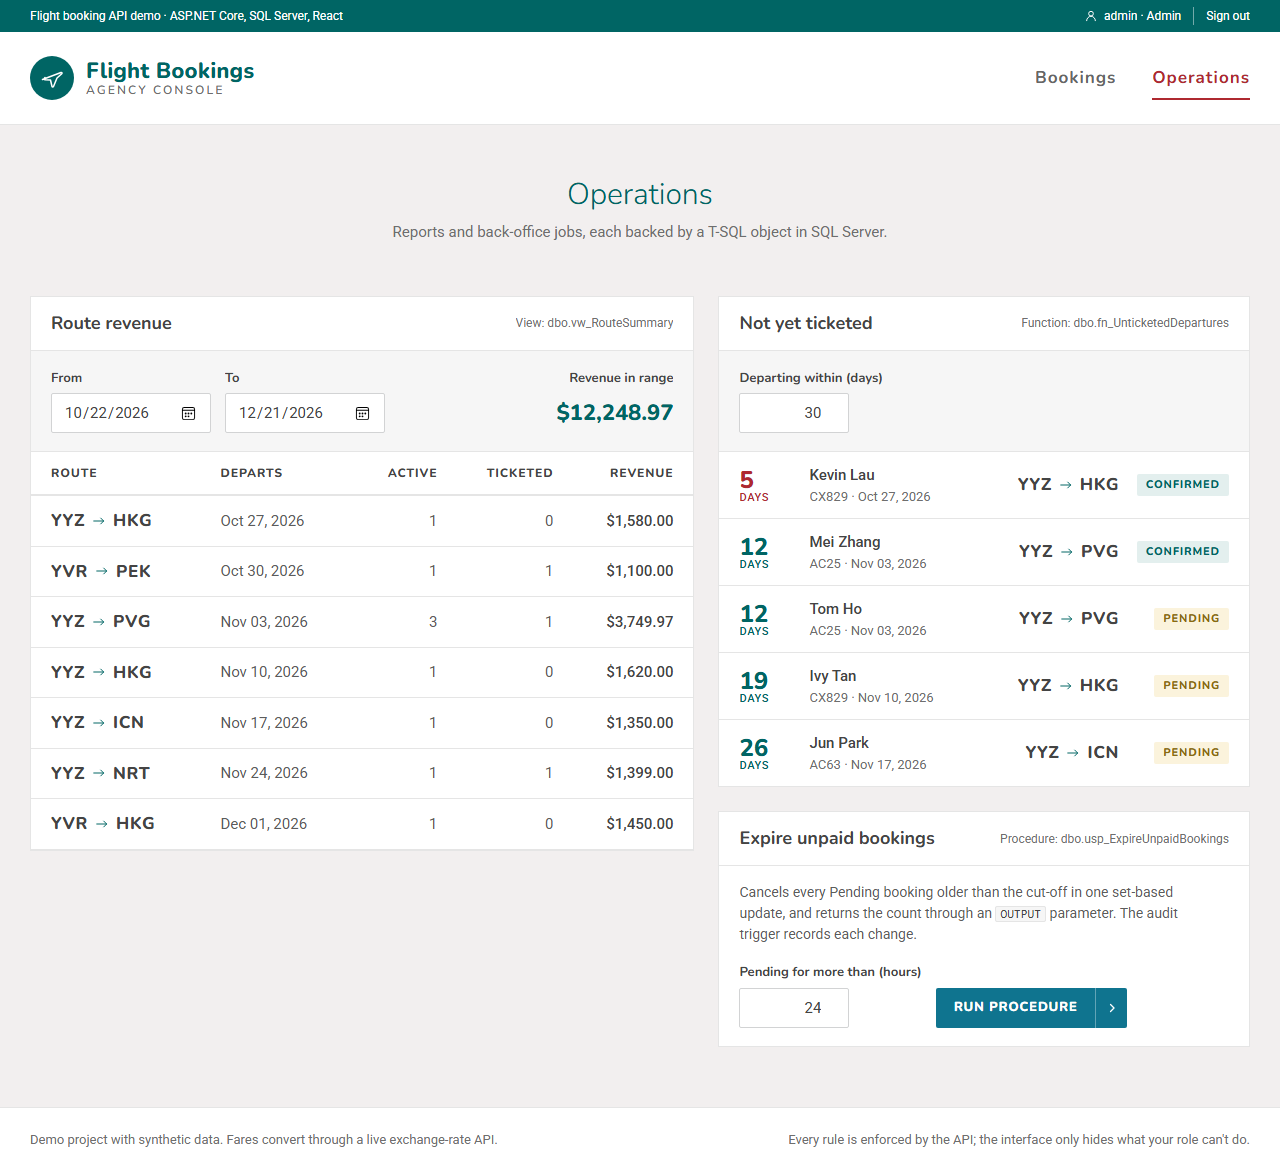
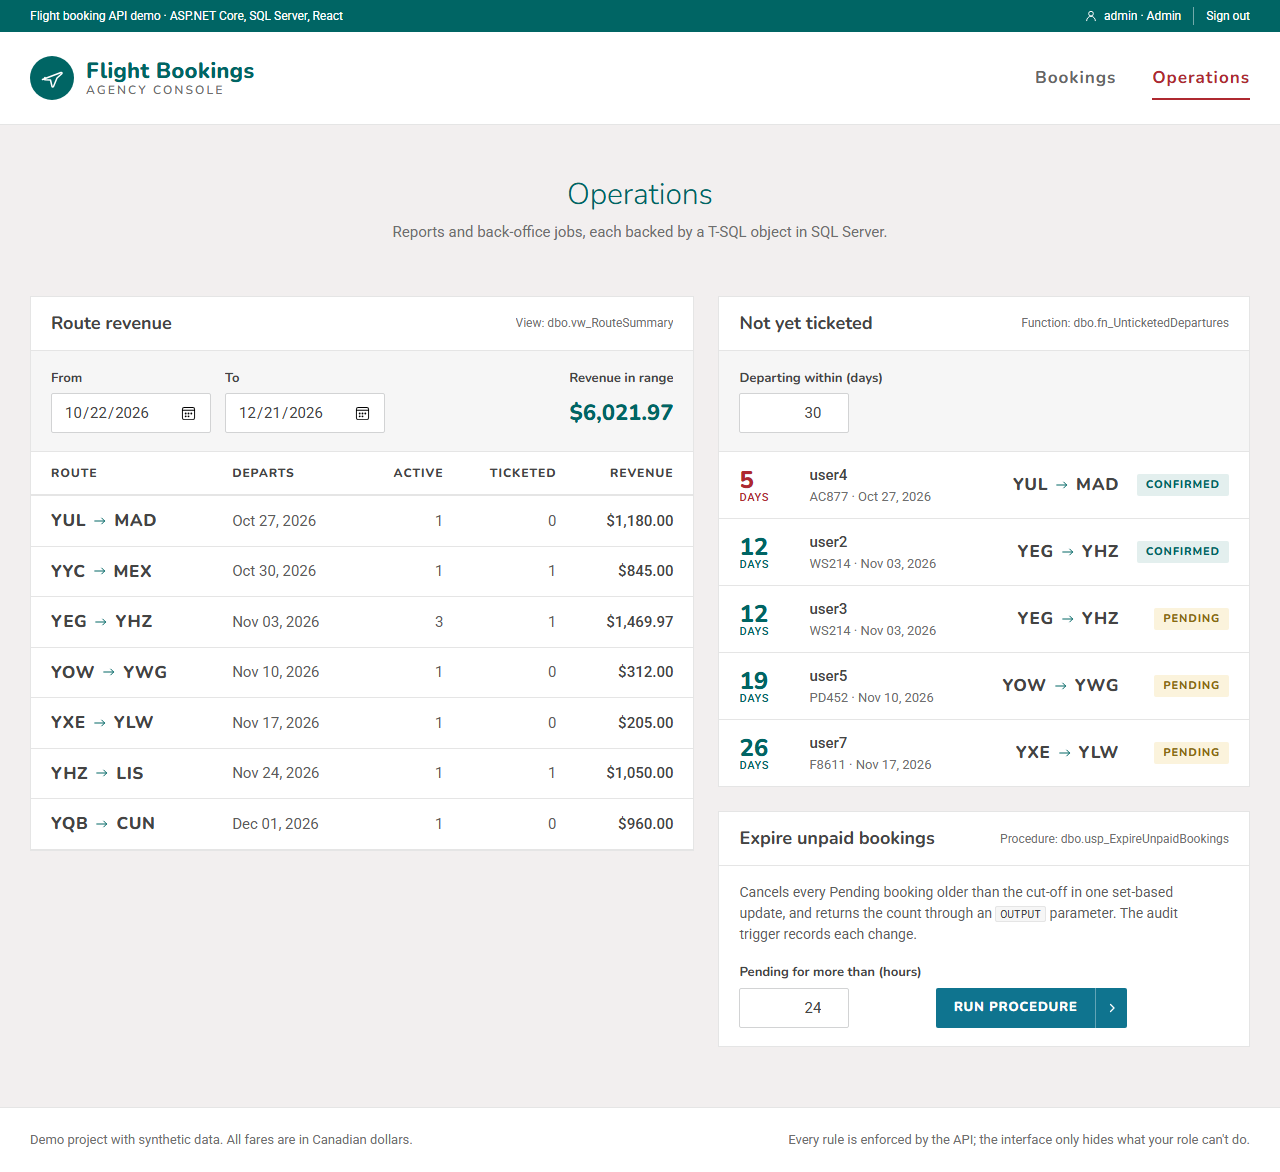
Enhancements

diff --git a/client/src/components/BookingsTable.tsx b/client/src/components/BookingsTable.tsx
@@ -1,14 +1,13 @@
 import { useState } from "react";
-import { changeStatus, getFare, type StatusAction } from "../api";
-import type { Booking, FareQuote } from "../types";
+import { changeStatus, type StatusAction } from "../api";
+import type { Booking } from "../types";
 import { money, shortDate } from "../format";
-import { Icon, Route, StatusTag } from "./Ui";
+import { Route, StatusTag } from "./Ui";
 
 interface Props {
   token: string;
   isAdmin: boolean;
   bookings: Booking[];
-  currency: string;
   selectedId: number | null;
   pressedId: number | null;
   onSelect: (id: number) => void;
@@ -31,14 +30,12 @@ export function BookingsTable({
   token,
   isAdmin,
   bookings,
-  currency,
   selectedId,
   pressedId,
   onSelect,
   onChanged,
   onError,
 }: Props) {
-  const [quotes, setQuotes] = useState<Record<number, FareQuote>>({});
   const [busyId, setBusyId] = useState<number | null>(null);
 
   async function runAction(id: number, action: StatusAction) {
@@ -48,18 +45,6 @@ export function BookingsTable({
       onChanged(id);
     } catch (err) {
       onError(err instanceof Error ? err.message : "Action failed.");
-    } finally {
-      setBusyId(null);
-    }
-  }
-
-  async function convert(id: number) {
-    setBusyId(id);
-    try {
-      const quote = await getFare(token, id, currency);
-      setQuotes((q) => ({ ...q, [id]: quote }));
-    } catch (err) {
-      onError(err instanceof Error ? err.message : "Conversion failed.");
     } finally {
       setBusyId(null);
     }
@@ -89,7 +74,6 @@ export function BookingsTable({
       </thead>
       <tbody>
         {bookings.map((b) => {
-          const quote = quotes[b.id]?.currency === currency ? quotes[b.id] : undefined;
           return (
             // key lets React match rows between renders, so it only updates the rows that changed
             <tr
@@ -125,7 +109,6 @@ export function BookingsTable({
               </td>
               <td className="num" data-label="Fare">
                 {money(b.fareCad, "CAD")}
-                {quote && <span className="converted">≈ {money(quote.convertedFare, quote.currency)}</span>}
               </td>
               <td data-label="Status">
                 <StatusTag status={b.status} fresh={pressedId === b.id} />
@@ -144,16 +127,6 @@ export function BookingsTable({
                       {LABELS[a]}
                     </button>
                   ))}
-                <button
-                  type="button"
-                  className="quiet"
-                  disabled={busyId === b.id}
-                  onClick={() => convert(b.id)}
-                  title={`Convert this fare to ${currency} with the live rates API`}
-                >
-                  <Icon name="convert" />
-                  {currency}
-                </button>
               </td>
             </tr>
           );

diff --git a/client/src/App.tsx b/client/src/App.tsx
@@ -9,7 +9,6 @@ import { ButtonLabel, Icon, Wordmark } from "./components/Ui";
 import type { Booking, BookingStatus, SearchFilters, Session } from "./types";
 
 const PAGE_SIZE = 10;
-const CURRENCIES = ["CNY", "HKD", "TWD", "JPY", "KRW", "USD"];
 
 type View = "bookings" | "operations";
 
@@ -24,7 +23,6 @@ export default function App() {
   const [totalCount, setTotalCount] = useState(0);
   const [error, setError] = useState<string | null>(null);
   const [loading, setLoading] = useState(false);
-  const [currency, setCurrency] = useState("CNY");
   const [selectedId, setSelectedId] = useState<number | null>(null);
   const [freshId, setFreshId] = useState<number | null>(null); // the row whose status just changed
   const [historyVersion, setHistoryVersion] = useState(0);
@@ -172,7 +170,7 @@ export default function App() {
                     <span className="field-label">To</span>
                     <input
                       className="code"
-                      placeholder="PVG"
+                      placeholder="YVR"
                       maxLength={3}
                       value={draft.destination}
                       onChange={(e) => setDraft({ ...draft, destination: e.target.value.toUpperCase() })}
@@ -199,14 +197,6 @@ export default function App() {
                   <button type="submit" className="btn-primary">
                     <ButtonLabel>Search</ButtonLabel>
                   </button>
-                  <label className="field compact convert-to">
-                    <span className="field-label">Convert fares to</span>
-                    <select value={currency} onChange={(e) => setCurrency(e.target.value)}>
-                      {CURRENCIES.map((c) => (
-                        <option key={c}>{c}</option>
-                      ))}
-                    </select>
-                  </label>
                 </form>
 
                 {error && (
@@ -220,7 +210,6 @@ export default function App() {
                     token={session.token}
                     isAdmin={isAdmin}
                     bookings={bookings}
-                    currency={currency}
                     selectedId={selectedId}
                     pressedId={freshId}
                     onSelect={(id) => setSelectedId((current) => (current === id ? null : id))}
@@ -269,7 +258,7 @@ export default function App() {
 
       <footer className="footer">
         <div className="footer-inner">
-          <span>Demo project with synthetic data. Fares convert through a live exchange-rate API.</span>
+          <span>Demo project with synthetic data. All fares are in Canadian dollars.</span>
           <span>Every rule is enforced by the API; the interface only hides what your role can't do.</span>
         </div>
       </footer>

diff --git a/client/src/index.css b/client/src/index.css
@@ -745,14 +745,6 @@ input.num {
   width: 150px;
 }
 
-.convert-to {
-  margin-left: auto;
-}
-
-.convert-to select {
-  width: 110px;
-}
-
 .toolbar-total {
   display: grid;
   gap: 5px;
@@ -844,13 +836,6 @@ input.num {
 
 .register td.dim {
   color: var(--muted);
-}
-
-.converted {
-  display: block;
-  font-size: 12px;
-  font-weight: 500;
-  color: var(--teal);
 }
 
 .row-open {
@@ -1217,10 +1202,6 @@ input.num {
     grid-template-columns: minmax(0, 1fr);
     grid-template-areas: "notice" "routes" "due" "expire";
   }
-
-  .convert-to {
-    margin-left: 0;
-  }
 }
 
 @media (max-width: 760px) {
@@ -1313,8 +1294,7 @@ input.num {
   .toolbar input.code,
   .toolbar input[type="date"],
   .toolbar input[type="number"],
-  .toolbar select,
-  .convert-to select {
+  .toolbar select {
     width: 100%;
   }
 

diff --git a/client/src/api.ts b/client/src/api.ts
@@ -1,7 +1,6 @@
 import type {
   Booking,
   CreateBookingRequest,
-  FareQuote,
   PagedResult,
   RouteSummary,
   SearchFilters,
@@ -91,10 +90,6 @@ export type StatusAction = "confirm" | "ticket" | "cancel";
 
 export function changeStatus(token: string, id: number, action: StatusAction): Promise<Booking> {
   return request(`/api/bookings/${id}/${action}`, token, { method: "PUT" });
-}
-
-export function getFare(token: string, id: number, currency: string): Promise<FareQuote> {
-  return request(`/api/bookings/${id}/fare?currency=${encodeURIComponent(currency)}`, token);
 }
 
 // Operations: each call is backed by a T-SQL object in SQL Server.

diff --git a/client/src/components/Ui.tsx b/client/src/components/Ui.tsx
@@ -11,7 +11,6 @@ type IconName =
   | "arrow"
   | "search"
   | "signout"
-  | "convert"
   | "close"
   | "chevron-left"
   | "chevron-right"
@@ -23,7 +22,6 @@ const ICONS: Record<IconName, React.ReactNode> = {
   arrow: <path d="M3 12h17m-5-5 5 5-5 5" />,
   search: <path d="m20 20-4.5-4.5M10.5 17a6.5 6.5 0 1 1 0-13 6.5 6.5 0 0 1 0 13Z" />,
   signout: <path d="M14 4h4.5A1.5 1.5 0 0 1 20 5.5v13a1.5 1.5 0 0 1-1.5 1.5H14M10 16l-4-4 4-4m-4 4h11" />,
-  convert: <path d="M4 8h13l-3.5-3.5M20 16H7l3.5 3.5" />,
   close: <path d="m6 6 12 12M18 6 6 18" />,
   "chevron-left": <path d="m14.5 6-6 6 6 6" />,
   "chevron-right": <path d="m9.5 6 6 6-6 6" />,

diff --git a/client/src/components/CreateBookingForm.tsx b/client/src/components/CreateBookingForm.tsx
@@ -107,7 +107,7 @@ export function CreateBookingForm({ token, onCreated }: Props) {
           <input
             className="code"
             value={form.destination}
-            placeholder="PVG"
+            placeholder="YVR"
             maxLength={3}
             onChange={(e) => update("destination", e.target.value.toUpperCase())}
             required

diff --git a/client/src/types.ts b/client/src/types.ts
@@ -32,15 +32,6 @@ export interface PagedResult<T> {
   totalPages: number;
 }
 
-export interface FareQuote {
-  bookingId: number;
-  fareCad: number;
-  currency: string;
-  rate: number;
-  convertedFare: number;
-  ratesUpdatedAt: string;
-}
-
 export interface TokenResponse {
   accessToken: string;
   expiresAtUtc: string;

diff --git a/Data/DemoDataSeeder.cs b/Data/DemoDataSeeder.cs
@@ -28,16 +28,16 @@ public static class DemoDataSeeder
             };
 
         db.Bookings.AddRange(
-            Make("Wei Chen", "AC25", "YYZ", "PVG", 12, 1249.99m, BookingStatus.Ticketed),
-            Make("Mei Zhang", "AC25", "YYZ", "PVG", 12, 1249.99m, BookingStatus.Confirmed),
-            Make("Tom Ho", "AC25", "YYZ", "PVG", 12, 1249.99m, BookingStatus.Pending),
-            Make("Kevin Lau", "CX829", "YYZ", "HKG", 5, 1580.00m, BookingStatus.Confirmed),
-            Make("Ivy Tan", "CX829", "YYZ", "HKG", 19, 1620.00m, BookingStatus.Pending),
-            Make("Grace Liu", "AC7", "YVR", "PEK", 8, 1100.00m, BookingStatus.Ticketed),
-            Make("Jun Park", "AC63", "YYZ", "ICN", 26, 1350.00m, BookingStatus.Pending),
-            Make("Amy Wong", "CX889", "YVR", "HKG", 40, 1450.00m, BookingStatus.Confirmed),
-            Make("Leo Chan", "BR35", "YVR", "TPE", 15, 1190.00m, BookingStatus.Cancelled),
-            Make("Sara Lin", "AC1", "YYZ", "NRT", 33, 1399.00m, BookingStatus.Ticketed));
+            Make("user1", "WS214", "YEG", "YHZ", 12, 489.99m, BookingStatus.Ticketed),
+            Make("user2", "WS214", "YEG", "YHZ", 12, 489.99m, BookingStatus.Confirmed),
+            Make("user3", "WS214", "YEG", "YHZ", 12, 489.99m, BookingStatus.Pending),
+            Make("user4", "AC877", "YUL", "MAD", 5, 1180.00m, BookingStatus.Confirmed),
+            Make("user5", "PD452", "YOW", "YWG", 19, 312.00m, BookingStatus.Pending),
+            Make("user6", "AC1871", "YYC", "MEX", 8, 845.00m, BookingStatus.Ticketed),
+            Make("user7", "F8611", "YXE", "YLW", 26, 205.00m, BookingStatus.Pending),
+            Make("user8", "WS2702", "YQB", "CUN", 40, 960.00m, BookingStatus.Confirmed),
+            Make("user9", "AC8455", "YQR", "YXU", 15, 398.00m, BookingStatus.Cancelled),
+            Make("user10", "TS130", "YHZ", "LIS", 33, 1050.00m, BookingStatus.Ticketed));
 
         db.SaveChanges(); // the audit trigger records each new booking in BookingStatusChanges
     }

diff --git a/Controllers/BookingsController.cs b/Controllers/BookingsController.cs
@@ -27,7 +27,7 @@ public class BookingsController : ControllerBase
         return Ok(await _service.GetAllAsync());
     }
 
-    // GET api/bookings/search?origin=YYZ&destination=PVG&date=2026-11-15&page=1&pageSize=20
+    // GET api/bookings/search?origin=YYZ&destination=YVR&date=2026-11-15&page=1&pageSize=20
     [HttpGet("search")]
     public async Task<ActionResult<PagedResult<Booking>>> Search([FromQuery] BookingSearchQuery query, CancellationToken ct)
     {
@@ -78,14 +78,14 @@ public class BookingsController : ControllerBase
     [HttpPut("{id:int}/cancel")]
     public Task<ActionResult<Booking>> Cancel(int id) => ChangeStatus(id, BookingStatus.Cancelled);
 
-    // GET api/bookings/5/fare?currency=CNY
+    // GET api/bookings/5/fare?currency=USD
     // CancellationToken is filled in by ASP.NET Core and fires if the client disconnects.
     [HttpGet("{id:int}/fare")]
     [ProducesResponseType(StatusCodes.Status200OK)]
     [ProducesResponseType(StatusCodes.Status503ServiceUnavailable)]
     public async Task<ActionResult<FareQuote>> GetFare(
         int id,
-        [FromQuery, Required, RegularExpression("^[A-Z]{3}$", ErrorMessage = "Use a 3-letter ISO currency code like CNY.")]
+        [FromQuery, Required, RegularExpression("^[A-Z]{3}$", ErrorMessage = "Use a 3-letter ISO currency code like USD.")]
         string currency,
         CancellationToken ct)
     {

diff --git a/Models/CreateBookingRequest.cs b/Models/CreateBookingRequest.cs
@@ -16,7 +16,7 @@ public record CreateBookingRequest(
     [Required, RegularExpression("^[A-Z]{3}$", ErrorMessage = "Use a 3-letter IATA code like YYZ.")]
     string Origin,
 
-    [Required, RegularExpression("^[A-Z]{3}$", ErrorMessage = "Use a 3-letter IATA code like PVG.")]
+    [Required, RegularExpression("^[A-Z]{3}$", ErrorMessage = "Use a 3-letter IATA code like YVR.")]
     string Destination,
 
     DateOnly DepartureDate,

diff --git a/Models/BookingSearchQuery.cs b/Models/BookingSearchQuery.cs
@@ -2,7 +2,7 @@ using System.ComponentModel.DataAnnotations;
 
 namespace FlightBookingDemo.Models;
 
-// Bound from the query string: ?origin=YYZ&destination=PVG&date=2026-11-15&page=1&pageSize=20
+// Bound from the query string: ?origin=YYZ&destination=YVR&date=2026-11-15&page=1&pageSize=20
 // Every filter is optional; paging has safe defaults and a hard cap.
 public class BookingSearchQuery
 {

diff --git a/README.md b/README.md
@@ -14,7 +14,7 @@ A small flight-booking REST API in **ASP.NET Core 8**, **Entity Framework Core**
 | PUT | `/api/bookings/{id}/confirm` | any user | Pending to Confirmed |
 | PUT | `/api/bookings/{id}/ticket` | **Admin** | Confirmed to Ticketed; 403 for agents |
 | PUT | `/api/bookings/{id}/cancel` | any user | Any active status to Cancelled |
-| GET | `/api/bookings/{id}/fare?currency=CNY` | any user | Live conversion; 503 + `Retry-After` if the rates API is down |
+| GET | `/api/bookings/{id}/fare?currency=USD` | any user | Live conversion; 503 + `Retry-After` if the rates API is down |
 | GET | `/api/operations/route-summary?from=&to=` | any user | Route revenue report from the view `vw_RouteSummary` |
 | GET | `/api/operations/unticketed?days=30` | any user | Bookings still needing a ticket, from the function `fn_UnticketedDepartures` |
 | POST | `/api/operations/expire-unpaid?olderThanHours=24` | **Admin** | Runs the stored procedure `usp_ExpireUnpaidBookings` |
@@ -24,7 +24,7 @@ Errors use the standard `ProblemDetails` JSON format (RFC 9110).
 
 ## Screenshots
 
-Agent view, with one fare converted to CNY through the live exchange-rate API and a booking's status history (written by the SQL Server trigger) open on the right:
+Agent view, with a booking's status history (written by the SQL Server trigger) open on the right. Fares are shown in CAD; the live conversion endpoint is in Swagger:
 
 ![Bookings, agent view](docs/screenshots/bookings-agent.png)
 
